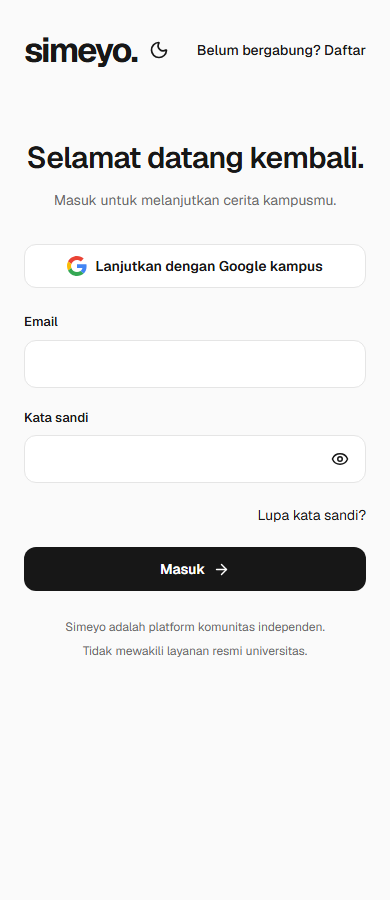
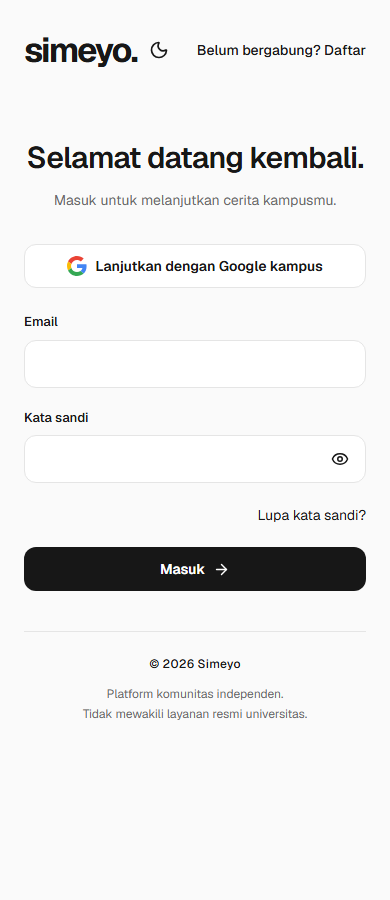
Refine authentication footer and add Simeyo copyright

Changed region(s): [[0.1538, 0.6844, 0.8308, 0.8089]]

diff --git a/apps/web/src/components/auth-form.tsx b/apps/web/src/components/auth-form.tsx
@@ -204,11 +204,16 @@ export function AuthForm({ mode }: { mode: "login" | "register" }) {
               <ArrowRight size={17} />
             </Button>
           </form>
-          <p className="mt-6 text-center text-xs leading-6 text-[var(--muted)]">
-            Simeyo adalah platform komunitas independen.
-            <br />
-            Tidak mewakili layanan resmi universitas.
-          </p>
+          <footer className="mt-10 border-t border-[var(--border)] pt-6 text-center">
+            <p className="text-xs font-medium tracking-wide text-[var(--foreground)]">
+              &copy; {new Date().getFullYear()} Simeyo
+            </p>
+            <p className="mx-auto mt-3 max-w-[300px] text-xs leading-5 text-[var(--muted)]">
+              Platform komunitas independen.
+              <br />
+              Tidak mewakili layanan resmi universitas.
+            </p>
+          </footer>
         </section>
       </main>
     </div>

diff --git a/CHANGELOG.md b/CHANGELOG.md
@@ -1,5 +1,7 @@
 # Changelog
 
+- Refine the shared login/registration footer with a subtle divider, centered copyright with automatic year and compact independent-platform attribution. Lint/build and focused responsive browser acceptance passed; desktop/mobile light/dark screenshots inspected.
+
 - Center the sign-in heading/subtitle and Google button content, add the Google mark and remove redundant campus-domain guidance. Shared Google component also updates Settings. Web lint/build and focused browser acceptance passed at 390/1440 pixels in both themes; screenshots inspected. Authentication/domain verification logic is unchanged.
 
 - Group loaded Activity entries by kind/destination/day and select current follow-request destinations. Add visibility-filtered cursor topic search and separate stories/people/topics with account-scoped search recovery. Add DM pending/inline failure/retry states, preserve newer drafts, deduplicate confirmations and separate calendar days. Fit mobile browser chat to VisualViewport changes; verify real worker offline privacy. Evidence and hardware limits: docs/testing/activity-search-messaging-2026-10-16.md.
